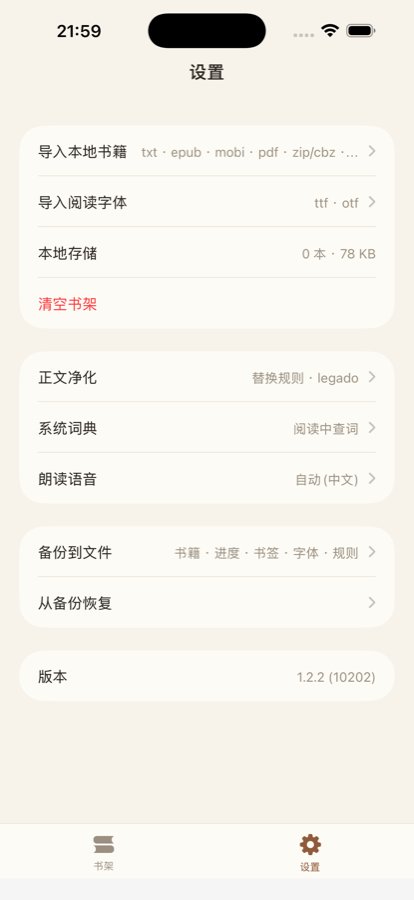
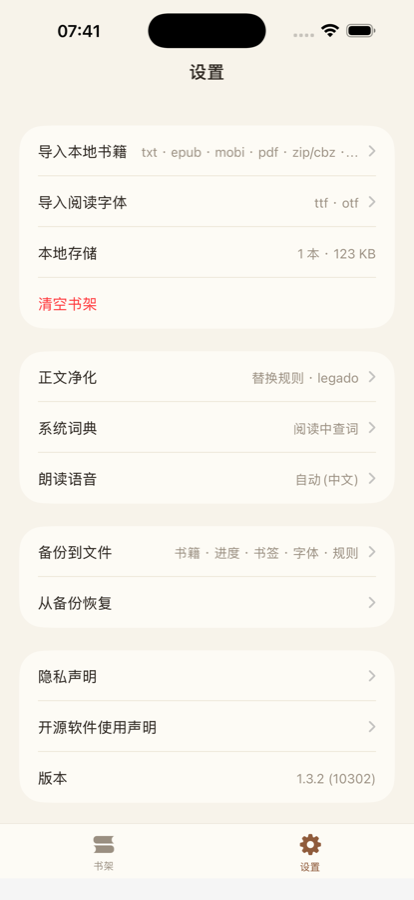
docs: refresh settings and legal document screenshots
Capture latest Settings (with privacy/open-source rows), privacy policy,
and open-source licenses pages for the README gallery. Debug builds honor
SIMCTL_CHILD_RD_SHOT for reproducible simctl screenshots.

diff --git a/Reader/Reader/Application/SceneDelegate.m b/Reader/Reader/Application/SceneDelegate.m
@@ -13,6 +13,9 @@
 #import "RDDatabaseLifecycle.h"
 #import "RDSplashViewController.h"
 #import "RDBookshelfPrefetch.h"
+#ifdef DEBUG
+#import "RDLegalDocumentController.h"
+#endif
 
 @interface SceneDelegate ()
 /// 冷启动时系统传入的待导入文件;主界面呈现后消费一次,避免预加载通知竞态。
@@ -85,11 +88,73 @@
         // 主界面出来后空闲预热设置页,首次点 Tab 不再创建 view
         dispatch_async(dispatch_get_main_queue(), ^{
             [main preloadSettingIfNeeded];
+#ifdef DEBUG
+            // SIMCTL_CHILD_RD_SHOT=settings|privacy|opensource 用于 README 截图
+            [self p_applyDebugScreenshotHookIfNeededWithMain:main navigation:nav];
+#endif
         });
     }];
     window.backgroundColor = RDBackgroudColor;
     [RDDisplayBoost applyToWindow:window];
 }
+
+#ifdef DEBUG
+/// 仅 Debug：由环境变量 RD_SHOT 跳到设置 / 隐私声明 / 开源声明，便于 simctl 截图。
+- (void)p_applyDebugScreenshotHookIfNeededWithMain:(RDMainController *)main
+                                        navigation:(UINavigationController *)nav
+{
+    NSString *shot = [NSProcessInfo processInfo].environment[@"RD_SHOT"];
+    if (shot.length == 0 || !main || !nav) {
+        return;
+    }
+    dispatch_after(dispatch_time(DISPATCH_TIME_NOW, (int64_t)(0.55 * NSEC_PER_SEC)), dispatch_get_main_queue(), ^{
+        [main setSelectedIndex:RDMainSetting];
+        // 滚到「关于」分组，露出隐私 / 开源 / 版本
+        UIViewController *settingVC = (main.viewControllers.count > 1) ? main.viewControllers[1] : nil;
+        [settingVC.view layoutIfNeeded];
+        for (UIView *sub in settingVC.view.subviews) {
+            if (![sub isKindOfClass:UITableView.class]) {
+                continue;
+            }
+            UITableView *table = (UITableView *)sub;
+            NSInteger sections = [table numberOfSections];
+            if (sections <= 0) {
+                break;
+            }
+            NSInteger lastSection = sections - 1;
+            NSInteger rows = [table numberOfRowsInSection:lastSection];
+            if (rows <= 0) {
+                break;
+            }
+            NSIndexPath *bottom = [NSIndexPath indexPathForRow:rows - 1 inSection:lastSection];
+            [table scrollToRowAtIndexPath:bottom atScrollPosition:UITableViewScrollPositionBottom animated:NO];
+            [table layoutIfNeeded];
+            break;
+        }
+
+        if ([shot isEqualToString:@"settings"]) {
+            return;
+        }
+
+        NSString *title = nil;
+        NSString *resource = nil;
+        if ([shot isEqualToString:@"privacy"]) {
+            title = @"隐私声明";
+            resource = @"PrivacyPolicy.zh-Hans";
+        } else if ([shot isEqualToString:@"opensource"]) {
+            title = @"开源软件使用声明";
+            resource = @"OpenSourceLicenses";
+        } else {
+            return;
+        }
+
+        dispatch_after(dispatch_time(DISPATCH_TIME_NOW, (int64_t)(0.35 * NSEC_PER_SEC)), dispatch_get_main_queue(), ^{
+            RDLegalDocumentController *vc = [[RDLegalDocumentController alloc] initWithTitle:title resourceName:resource];
+            [nav pushViewController:vc animated:NO];
+        });
+    });
+}
+#endif
 
 - (void)sceneWillEnterForeground:(UIScene *)scene
 {

diff --git a/README.md b/README.md
@@ -27,7 +27,12 @@
 | 排版设置 | 应用设置 | 正文净化 |
 |:---:|:---:|:---:|
 | <img src="Screenshots/04-typography.png" width="180" alt="排版设置"/> | <img src="Screenshots/05-settings.png" width="180" alt="应用设置"/> | <img src="Screenshots/06-reading-rules.png" width="180" alt="正文净化"/> |
-| 字号 · 字体 · 翻页动画 | 导入 · 备份 · 朗读 · 词典 | legado 风格替换规则 |
+| 字号 · 字体 · 翻页动画 | 导入 · 备份 · 隐私/开源入口 | legado 风格替换规则 |
+
+| 隐私声明 | 开源软件使用声明 |
+|:---:|:---:|
+| <img src="Screenshots/07-privacy.png" width="180" alt="隐私声明"/> | <img src="Screenshots/08-opensource.png" width="180" alt="开源软件使用声明"/> |
+| 设置内本地文档 · 无网络 | 完整许可与归属 · 可滚动复制 |
 
 ---
 